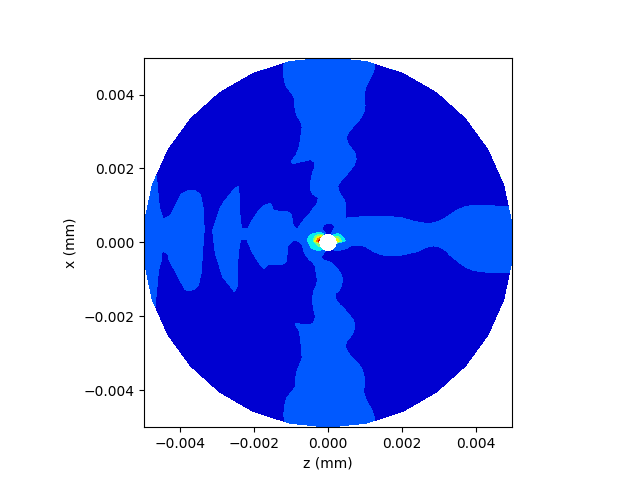
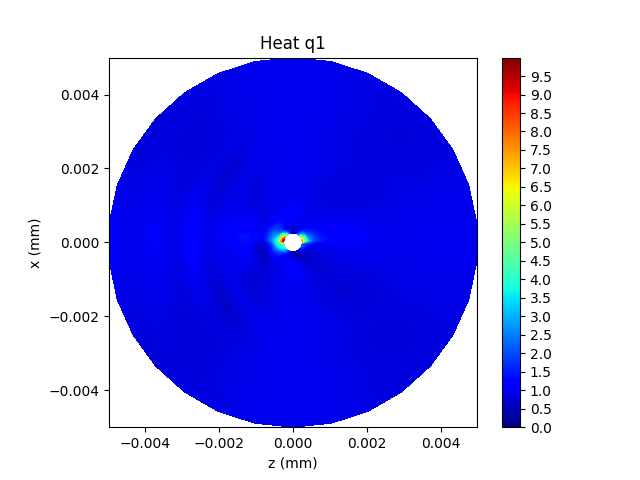
Colorbar fix, plot titles, better graphs, more debug statements... (#5)
* This is a test

* Changed k to k1 in parameters.py and main.py

* fixed k to k1 and got output temperature plots

* Sorta fix for colorbar, gitignore png

* Fully fixed colorbar, colormap.

* small fix

* Typos, titles for graphs

* Added tickstep control and graph title

* Added labels to tempGradient plot

---------

diff --git a/equations/graph.py b/equations/graph.py
@@ -1,6 +1,6 @@
 import numpy as __np
 import matplotlib.pyplot as __plt
-from matplotlib.colors import Normalize
+from matplotlib.colors import Normalize, Colormap
 from matplotlib import cm
 from equations.parameters import *
 import time
@@ -12,37 +12,56 @@ R, theta = __np.meshgrid(r, tha1)
 X = R * __np.cos(theta)
 Y = R * __np.sin(theta)
 
-cmap = __plt.get_cmap('jet',10000)
+cmap = __plt.get_cmap('jet')
 
-fig, ax = __plt.subplots(subplot_kw=dict())
-
-def graph_eq(sig, name = str(time.time())[7:-4], factor = 10e6, dir = "./pictures/", colorbar_ticks = "0.5 or 1, 0.2 for T"):
+# Should be 10e6? Need to figure out why/if 10x difference.
+def graph_eq(sig, name = str(time.time())[7:-4], factor = 10e5, dir = "./pictures/"):
+    fig, ax = __plt.subplots()
     values = __np.abs(sig)
-    ax.contourf(X, Y, values)
+    ax.contourf(X, Y, values, 256)
 
-    vmax = __np.floor(__np.amax(values)/factor)
+    vmax = __np.ceil(__np.amax(values)/factor)
     vmin = __np.floor(__np.amin(values)/factor)
 
     norm = Normalize(vmin=vmin, vmax=vmax)
     sm = cm.ScalarMappable(cmap=cmap, norm=norm)
     sm.set_array([])
-    #__plt.colorbar(sm, ticks=arange(vmin,vmax,1),boundaries=arange(vmin,vmax,.001))
+
+    # colorbar_ticks = "0.5 or 1, 0.2 for T"
+    # From last year ^
+    if(name == "rR"): tickstep = 1
+    else: tickstep = .5
+
+    if (name == "q1"): title = "Heat "
+    else: title = "Stress "
+
+    fig.colorbar(sm, ticks=__np.arange(0,vmax,tickstep), boundaries=__np.arange(0,vmax,.001), ax=ax)
 
     __plt.gca().set_aspect("equal")
     __plt.xlabel("z (mm)")
     __plt.ylabel("x (mm)")
+    __plt.title(title + name)
     fig.savefig(dir + name + ".png")
 
+# shift is T0?
 def graph_temp_gr(values, shift = 21, name = str(time.time())[7:-4], dir = "./pictures/"):
-    ax.contourf(X, Y, values - shift)
-    vmax = __np.floor(__np.amax(__np.abs(values)))
-    vmin = __np.floor(__np.amin(__np.abs(values)))
+    fig, ax = __plt.subplots()
+    ax.contourf(X, Y, values - shift, 256)
+
+    vmax = __np.ceil(__np.amax(__np.abs(values))) - shift # T0?
+    vmin = __np.floor(__np.amin(__np.abs(values))) - shift # T0?
 
     norm = Normalize(vmin=vmin, vmax=vmax)
     sm = cm.ScalarMappable(cmap=cmap, norm=norm)
     sm.set_array([])
-    #__plt.colorbar(sm, ticks=arange(vmin,vmax,10),boundaries=arange(vmin,vmax,.001))
+    
+    tickstep = .2 # From last year
+
+    fig.colorbar(sm, ticks=__np.arange(0,vmax,tickstep), boundaries=__np.arange(0,vmax,.001), ax=ax)
     
     __plt.gca().set_aspect("equal")
+    __plt.xlabel("z (mm)")
+    __plt.ylabel("x (mm)")
+    __plt.title(name)
     fig.savefig(dir + name + ".png")
     

diff --git a/main.py b/main.py
@@ -60,27 +60,27 @@ from equations.temperature import *
 
 
 # Stress Equations
-sigrr = get_sigrr(); print("sigrr Equation done")
+sigrr = get_sigrr(); print("sigrr equation done...")
 
-sigphiphi = get_sigphiphi(); print("sigpp Equation done")
+sigphiphi = get_sigphiphi(); print("sigpp equation done...")
 
-sigthatha = get_sigthatha(); print("sigtt Equation done")
+sigthatha = get_sigthatha(); print("sigtt equation done...")
 
-sigrtha = get_sigrtha(); print("sigrt Equation done")
+sigrtha = get_sigrtha(); print("sigrt equation done...")
 
 # Stress Graphs
-graph_eq(sigrr, name = "rR")
+graph_eq(sigrr, name = "rR"); print("sigrr graph done...")
 
-graph_eq(sigphiphi, name = "phiPhi")
+graph_eq(sigphiphi, name = "phiPhi"); print("sigpp graph done...")
 
-graph_eq(sigthatha, name = "thetaTheta")
+graph_eq(sigthatha, name = "thetaTheta"); print("sigtt graph done...")
 
-graph_eq(sigrtha, name = "rTheta")
+graph_eq(sigrtha, name = "rTheta"); print("sigrt graph done...")
 
 # Volumetric Heat Generation Graph
-q1 = get_q1(sigrr, sigphiphi, sigthatha, sigrtha)
+q1 = get_q1(sigrr, sigphiphi, sigthatha, sigrtha); print("q1 equation done...")
 
-graph_eq(q1, "q1")
+graph_eq(q1, "q1"); print("q1 graph done...")
 
 # Input for Tempurature Gradient
 
@@ -113,7 +113,7 @@ T = FillGap(T1,r,tha1,t)
 
 # Graph Temperature Gradient
 
-graph_temp_gr(T[:,:,(t.size-1)], shift = 21, name = "tempGradient")
+graph_temp_gr(T[:,:,(t.size-1)], shift = 21, name = "tempGradient"); print("temp graph done...")
 
 # #Output IO
 # put_io("outi", "phiPhi", "Phi Stress on the Phi Face Image")

diff --git a/equations/scipy_funcs.py b/equations/scipy_funcs.py
@@ -33,7 +33,7 @@ def dPndtha(m,n,x,tha):
         elif m == 2:
             return -__scisp.lpmv(1,n,x)*(cot(tha))
         else:
-            raise TypeError("Invlaid input. The first term should be a 1 or a 2")
+            raise TypeError("Invalid input. The first term should be a 1 or a 2")
         
     elif n > 1:
         if m == 1:
@@ -41,7 +41,7 @@ def dPndtha(m,n,x,tha):
         elif m == 2:
             return __scisp.lpmv(2,n,x) - __scisp.lpmv(1,n,x)*(cot(tha))
         else:
-            raise TypeError("Invlaid input. The first term should be a 1 or a 2")
+            raise TypeError("Invalid input. The first term should be a 1 or a 2")
 
 #h_n: Spherical Hankel Function of the first kind
 def hn(n,z):

diff --git a/equations/An_Bn.py b/equations/An_Bn.py
@@ -5,7 +5,7 @@ from equations.scipy_funcs import hn, jn
 #Coefficient for the Longitudinal and Shear Wave Potentials respectivly
 #========================================================================================
 
-#A_n and B_n
+#A_n and B_n (this is a test comment)
 def An_Bn(n):
     from equations.parameters import a1, a, B1, P, eta
     if n == 1:
